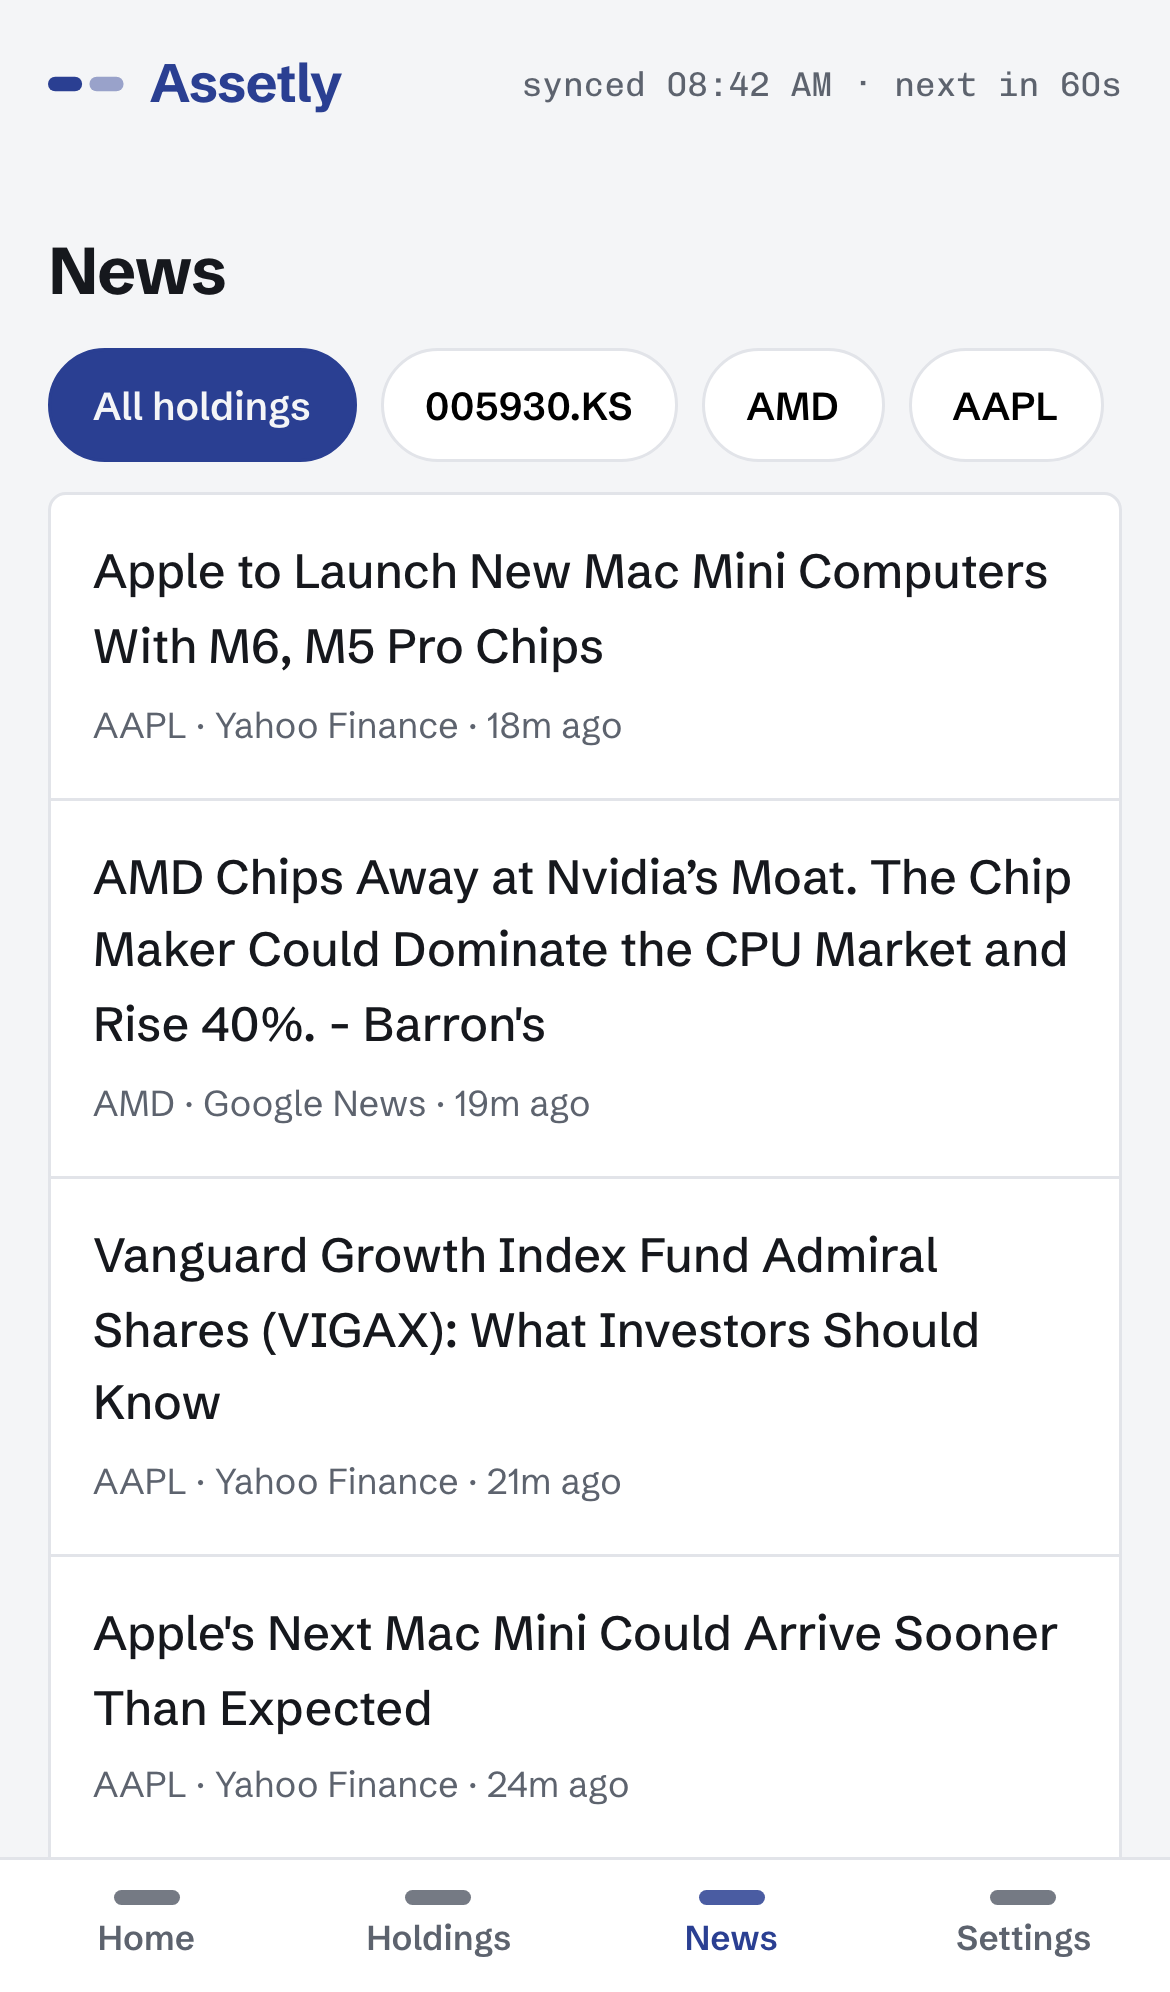
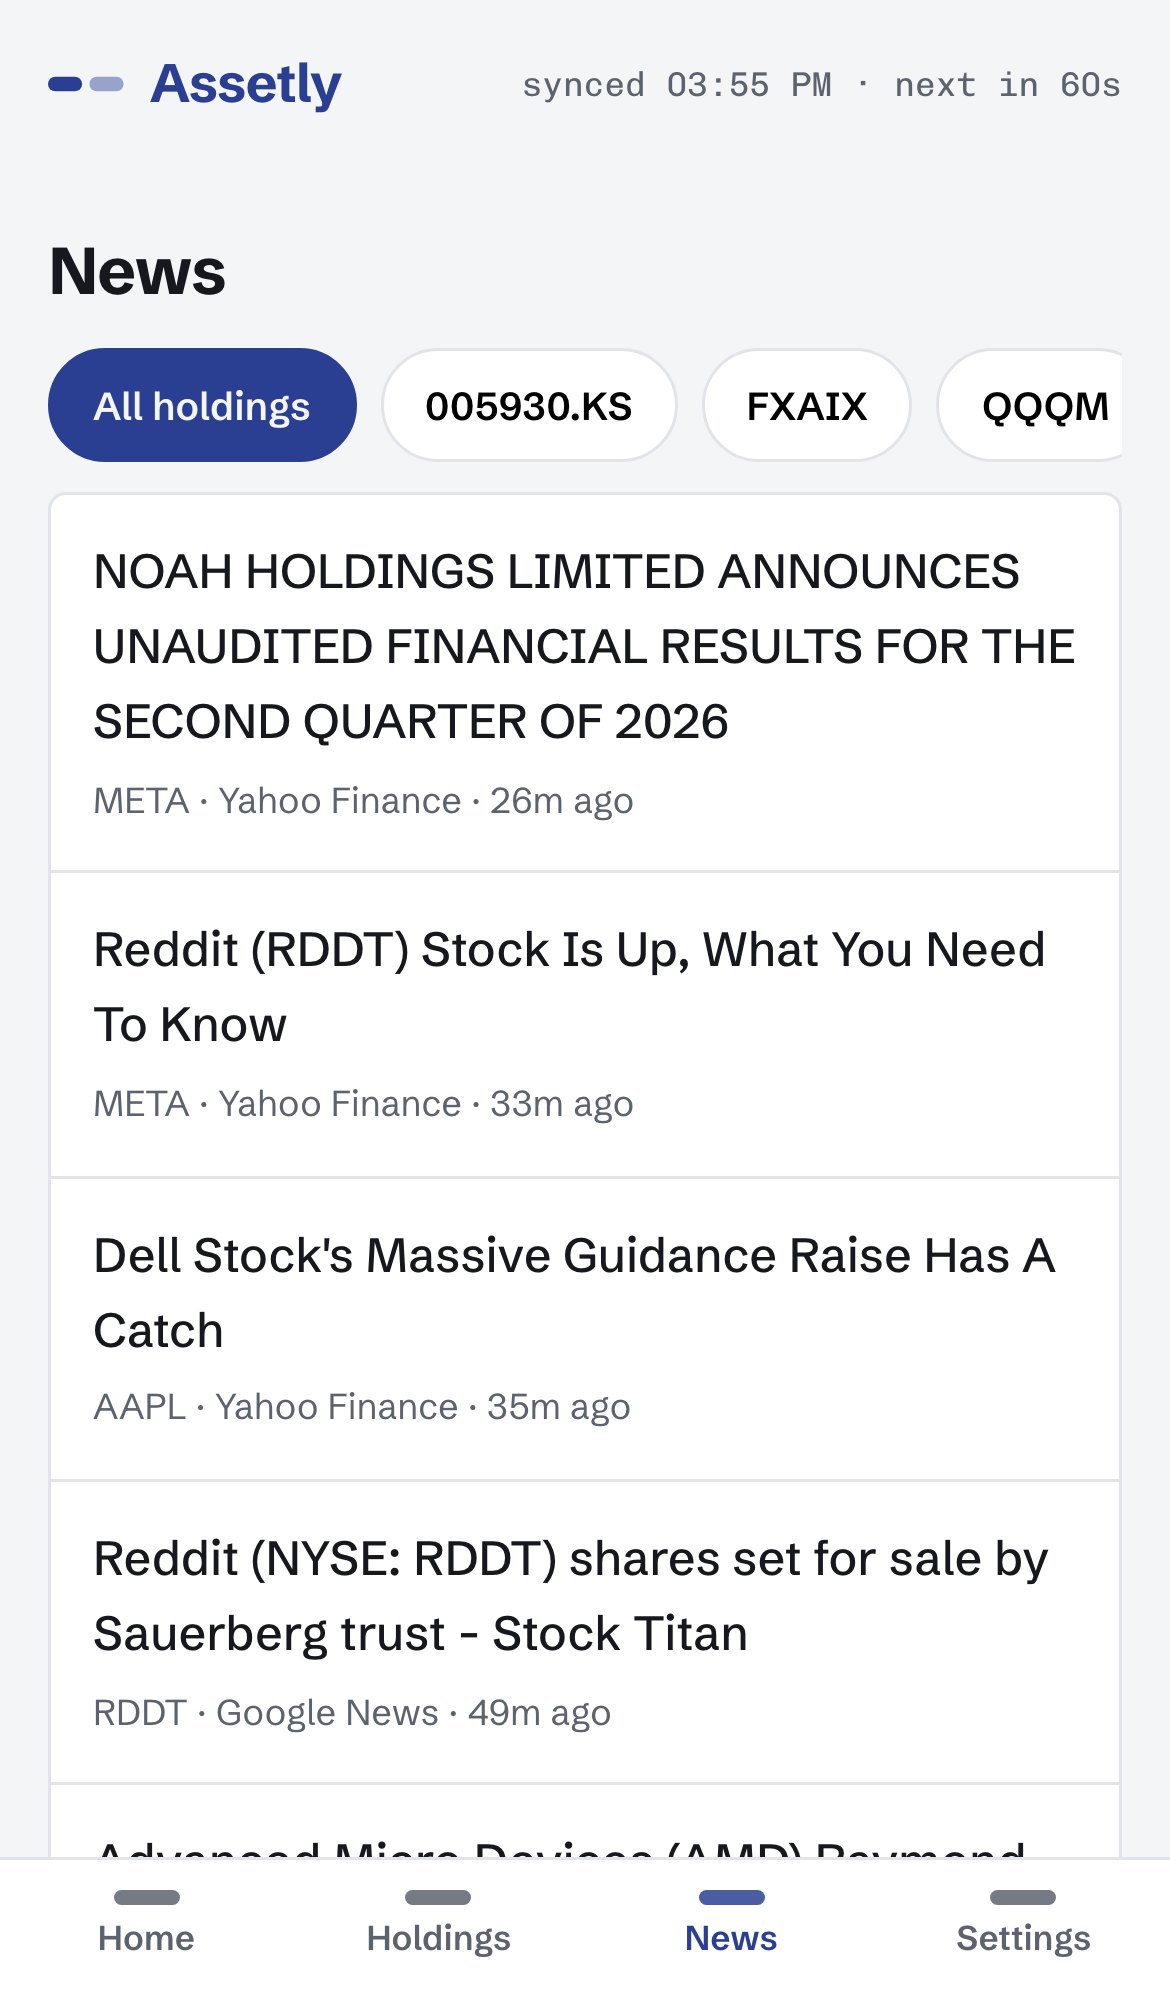
Scenario account-aware seeding; docs for consolidated assets
Claude-Session: https://claude.ai/code/session_01UrXDbe72LnXzKfy7ekZgnY

diff --git a/QUALITY.md b/QUALITY.md
@@ -50,6 +50,15 @@ production project; **Judged** = scored against the stated criterion.
 8. iPhone e2e race on derived-average assertion → wait-for.
 9. (8/24) Yahoo search API rejects Hangul queries ("Invalid Search Query") → server-side
    Korean→English alias rewrite in symbol-search; caught by cloud battery C3.
+10g. (8/25) Consolidated assets: holdings.account (brokerage default / 401k / IRA —
+   same ticker per account is a separate position, chips only appear at add time),
+   $CASH and $DEBT pinned $1 positions (one-field add; debt subtracts from net worth,
+   shown as -$; pipelines skip pinned kinds; no charts on them). CRITICAL catch before
+   ship: CASH is Pathward's real NYSE ticker (already held in prod) and DEBT is a real
+   ETF — pinned symbols use $-prefixed names immune to collisions. Also fixed: mutual
+   funds (venue NAS: FXAIX, FFLDX) were filtered out of universal search; DROP VIEW
+   loses grants (regranted in-migration). Tests: 5 UI, 4 integration, consolidated
+   scenario step live on prod (401k + cash + debt + FXAIX + net-worth math).
 10f. (8/25) META -25.9% root cause (user report): ensure wrote meta.chartPreviousClose
    from a 1y-range chart — Yahoo defines that as the close before the RANGE START, i.e.
    the close from a YEAR ago (753.30 vs 559 price). The Aug-24 catalog sweep spread it to
